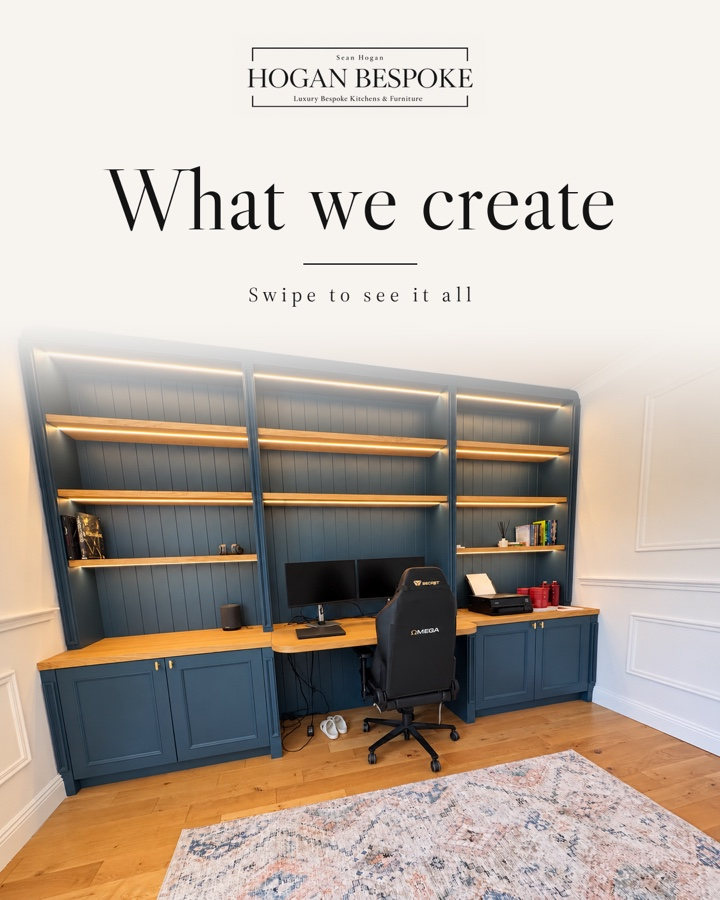
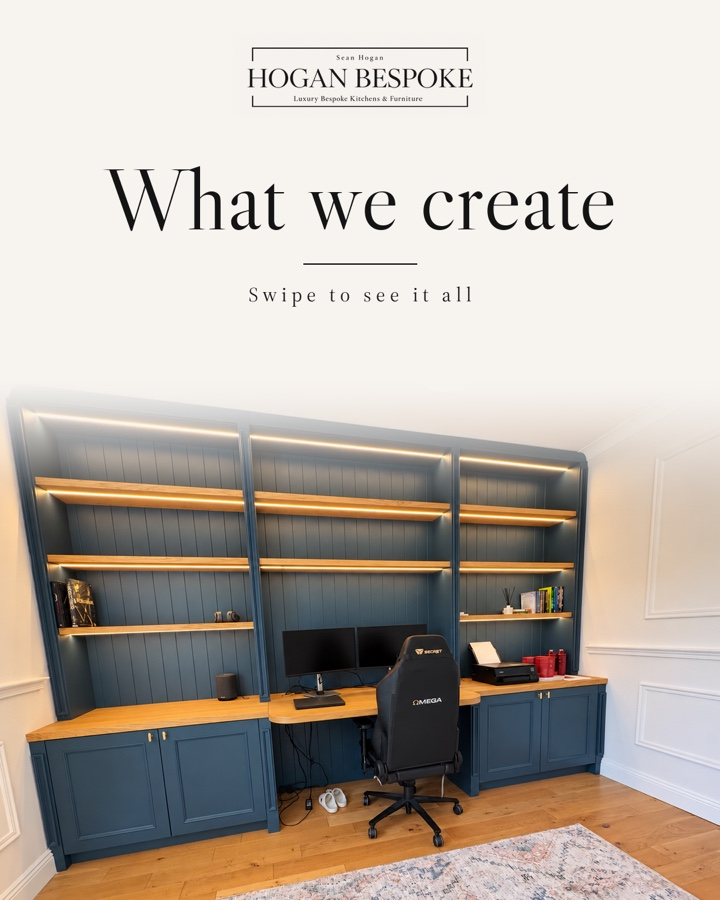
Hogan post 2: cover cropped to the furniture

diff --git a/public/approve/hogan-bespoke-x96pyh/index.html b/public/approve/hogan-bespoke-x96pyh/index.html
@@ -37,7 +37,7 @@
     <span>Eli Fátima · Irish Business Boosters · hello@irishbusinessboosters.com</span>
   </footer>
 </div>
-<script id="approval-data" type="application/json">{"page": "hogan-bespoke-x96pyh", "client": "Sean", "username": "hogan_bespoke_furniture", "avatar": "logo.png", "location": "Waterford, Ireland", "profile": {"id": "profile", "title": "New bio and highlights", "chips": ["Pick one bio"], "intro": "This is how your profile will look by the end of November: the new bio, the new highlight covers and the new posts at the top.", "about": "Both bios say who you are, what you make, and that you fit all over Ireland. Pick the one that sounds more like you.", "name": "Hogan Bespoke | Kitchens Ireland", "category": "Kitchen & cabinet designer", "link": "hoganbespokefurniture.com", "stats": ["175", "1,407", "609"], "choices": [{"id": "Bio A", "label": "Bio A · leads with the title", "bio": "IrelandSkills cabinetmaking champion 🏆\nBespoke kitchens, wardrobes & media walls\nHandmade in Waterford · Fitted all over Ireland\n👇 Get a quote"}, {"id": "Bio B", "label": "Bio B · softer", "bio": "Award-winning cabinetmaker 🏆\nKitchens, wardrobes, media walls & stairs\nHandmade in Waterford · Fitted all over Ireland\n👇 Get a quote"}], "highlights": [{"src": "covers/light-01-our-story.jpg", "name": "Our Story"}, {"src": "covers/light-02-kitchens.jpg", "name": "Kitchens"}, {"src": "covers/light-03-reviews.jpg", "name": "Reviews"}, {"src": "covers/light-04-wardrobes.jpg", "name": "Wardrobes"}, {"src": "covers/light-05-media-walls.jpg", "name": "Media Walls"}, {"src": "covers/light-06-commercial.jpg", "name": "Commercial"}, {"src": "covers/light-07-process.jpg", "name": "Process"}, {"src": "covers/light-08-joinery.jpg", "name": "Joinery"}, {"src": "covers/light-09-get-a-quote.jpg", "name": "Get a Quote"}], "grid": ["posts/08-commercial.jpg?v=3", "posts/07-christmas-media-wall.jpg?v=3", "posts/06-wardrobes.jpg?v=3", "posts/05-workshop.jpg?v=3", "posts/04-kitchens.jpg?v=3", "posts/03-the-reveal.jpg?v=3", "posts/02-what-we-create.jpg?v=2", "posts/01-slide-01.jpg?v=8", "posts/old-2026-trim-castle-hotel.jpg?v=3"]}, "postsTitle": "Your November posts", "postsIntro": "Eight posts, Mondays and Thursdays. Post 1 is fully designed; for the others you're seeing the cover, and we'll finish the slides as soon as the photos and details are in. The yellow bits are details we still need from you.", "posts": [{"id": "post-01", "date": "2026-11-02", "kind": "carousel", "title": "Come on in", "chips": ["Carousel · 9 slides", "Pinned to the top"], "images": ["posts/01-slide-01.jpg?v=9", "posts/01-slide-02.jpg?v=9", "posts/01-slide-03.jpg?v=11", "posts/01-slide-04.jpg?v=11", "posts/01-slide-05.jpg?v=11", "posts/01-slide-06.jpg?v=11", "posts/01-slide-07.jpg?v=11", "posts/01-slide-08.jpg?v=11", "posts/01-slide-09.jpg?v=11"], "about": "Our first post: the story of the company in nine slides, from the IrelandSkills title in 2017 to opening the workshop in 2020 and everything we make today.", "need": "Is there anything you'd change in the story? And if you have the original of the IrelandSkills photo, it would look sharper.", "caption": "Come on in. This is how we started.\n\nIn 2017, our founder Sean Hogan won IrelandSkills, the national championship for cabinetmaking, and went on to captain Team Ireland at WorldSkills in Abu Dhabi.\n\nIn August 2020, in the middle of a pandemic, we opened our workshop in Waterford.\n\nSince then we've designed and built kitchens, wardrobes, media walls and stairs for homes all over Ireland, and fitted out hotels and businesses like Trim Castle Hotel.\n\nEverything is still made by hand in our own workshop, to the same standard.\n\nOver the coming weeks we'll show you more of the work, and how it's made. Glad to have you here.", "tags": "#bespokekitchens #irishkitchens #handmadeinireland #bespokefurniture #waterford"}, {"id": "post-02", "date": "2026-11-05", "kind": "carousel", "title": "What we create", "chips": ["Carousel · 7 slides", "Pinned to the top", "Cover shown"], "images": ["posts/02-what-we-create.jpg?v=2"], "about": "A clear menu of everything you do, one slide per service. It stays pinned so anyone landing on your profile sees it straight away.", "need": "Is anything missing from the list? And do you do handleless kitchens?", "caption": "What we create. Everything is designed and built for one room only. Here's what that covers:\n\n· Kitchens: shaker, in-frame and handleless, painted or natural wood\n· Wardrobes: fitted, sliding and walk-in\n· Media walls: TV units, fireplaces, shelving and lighting\n· Stairs & joinery: staircases, drinks units, panelling and doors\n· Home offices and utility rooms\n· Commercial fit-outs: hotels, bars, offices and public buildings\n\nWe fit all over Ireland. Tell us what you're planning: send us a message or tap the link in our bio.", "tags": "#bespokefurniture #bespokekitchens #fittedwardrobes #mediawall #madeinireland"}, {"id": "post-03", "date": "2026-11-09", "kind": "reel", "length": "15 s", "title": "The reveal: navy kitchen", "chips": ["Reel"], "images": ["posts/03-the-reveal.jpg?v=3"], "about": "A slow walk into the navy kitchen, past the island, a drawer opening and closing softly. Calm music, no talking.", "need": "A video of this kitchen, if you have one (even a short phone clip). If not, I'll make it from the photos. Roughly how many weeks did it take?", "caption": "Every one of our kitchens is designed and built for one room only.\n\nThis one: navy painted shaker doors, premium stone worktops and a waterfall island. [X] weeks from first measure to final fit.\n\nPlanning a kitchen for 2027? Send us a message or tap the link in our bio.", "tags": "#bespokekitchens #navykitchen #irishkitchens #kitchendesignireland"}, {"id": "post-04", "date": "2026-11-12", "kind": "carousel", "title": "What we make: Kitchens", "chips": ["Carousel · 6 slides", "Series: What we make", "Cover shown"], "images": ["posts/04-kitchens.jpg?v=3"], "about": "The first of the \"What we make\" series. Slides: the styles (shaker, in-frame, handleless) · the materials · what's included · how long it takes · how to start.", "need": "How long does a kitchen usually take, from first visit to fitted? And which worktops do you use most?", "caption": "What goes into a Hogan Bespoke kitchen?\n\n· The style: shaker, in-frame or handleless\n· The wood: solid oak, ash or walnut, painted or natural\n· The worktop: [quartz, stone or solid wood]\n· The design: you see it in 3D before we cut a single board\n· The timing: around [X] weeks from first visit to final fit\n\nAll made in our workshop in Waterford and fitted by our own team, anywhere in Ireland.\n\nSwipe for the details 👉", "tags": "#bespokekitchens #shakerkitchen #irishkitchens #kitchendesignireland"}, {"id": "post-05", "date": "2026-11-16", "kind": "reel", "length": "15–20 s", "title": "From the workshop", "chips": ["Reel"], "images": ["posts/05-workshop.jpg?v=3"], "about": "Quick clips of hands and timber: cutting, shaping, sanding and assembling a door, with the real workshop sound. Ends on the finished piece.", "need": "We film this together on Tuesday 27 October. Five minutes at the bench is plenty.", "caption": "Before it's a kitchen door, it's a board of [timber] on our bench in Waterford.\n\nWe cut, shape, sand and assemble everything ourselves, so we control every millimetre, and nothing arrives on site that we haven't checked by hand.", "tags": "#handmadeinireland #cabinetmaker #bespokefurniture #waterford"}, {"id": "post-06", "date": "2026-11-19", "kind": "carousel", "title": "What we make: Wardrobes", "chips": ["Carousel · 6 slides", "Series: What we make", "Cover shown"], "images": ["posts/06-wardrobes.jpg?v=3"], "about": "Series, part 2. Slides: fitted · sliding · walk-in · children's rooms · what goes inside (rails, drawers, shoe racks, lighting).", "caption": "Fitted, sliding or walk-in: every wardrobe we make is built around the room and what goes in it.\n\nInside, you choose: hanging rails and pull-down rails, drawers, shoe racks, shelving and LED lighting.\n\nSwipe to see the options 👉\n\nThinking about a wardrobe? Send us a message with a photo of the space.", "tags": "#fittedwardrobes #walkinwardrobe #bespokefurniture #irishhomes"}, {"id": "post-07", "date": "2026-11-23", "kind": "reel", "length": "10–15 s", "title": "The room you'll spend Christmas in", "chips": ["Reel", "Christmas"], "images": ["posts/07-christmas-media-wall.jpg?v=3"], "about": "Starts on a detail (the LED light, a shelf) and opens out to the whole media wall, with the fire on.", "need": "A video of a media wall with the lights or fire on, if you have one.", "caption": "The room everyone ends up in at Christmas.\n\nThis media wall hides every cable, frames the fire and lights up the shelves, all built to fit the room to the millimetre.\n\nToo late for this Christmas? Plenty of time for the next one. Send us a message.", "tags": "#mediawall #livingroomideas #irishhomes #christmasathome"}, {"id": "post-08", "date": "2026-11-26", "kind": "carousel", "title": "What we make: Commercial", "chips": ["Carousel · 6 slides", "Series: What we make", "Cover shown"], "images": ["posts/08-commercial.jpg?v=3"], "about": "Series, part 3: the Trim Castle Hotel fit-out, with the other businesses you've built for on the last slide.", "need": "Are you happy for us to name The Fitzwilton, Bausch + Lomb, Clonmel Credit Union and the Garda station? I can leave out any of them.", "caption": "It's not only homes.\n\nWe recently completed the fit-out at Trim Castle Hotel: [what we built, e.g. the bar and back bar], made in our Waterford workshop and fitted on site.\n\nOver the years we've also built for The Fitzwilton Hotel, Bausch + Lomb, Clonmel Credit Union and Waterford Garda Station.\n\nPlanning a fit-out? Email sales@hoganbespoke.com.", "tags": "#commercialjoinery #hotelinteriors #shopfitting #madeinireland"}]}</script>
+<script id="approval-data" type="application/json">{"page": "hogan-bespoke-x96pyh", "client": "Sean", "username": "hogan_bespoke_furniture", "avatar": "logo.png", "location": "Waterford, Ireland", "profile": {"id": "profile", "title": "New bio and highlights", "chips": ["Pick one bio"], "intro": "This is how your profile will look by the end of November: the new bio, the new highlight covers and the new posts at the top.", "about": "Both bios say who you are, what you make, and that you fit all over Ireland. Pick the one that sounds more like you.", "name": "Hogan Bespoke | Kitchens Ireland", "category": "Kitchen & cabinet designer", "link": "hoganbespokefurniture.com", "stats": ["175", "1,407", "609"], "choices": [{"id": "Bio A", "label": "Bio A · leads with the title", "bio": "IrelandSkills cabinetmaking champion 🏆\nBespoke kitchens, wardrobes & media walls\nHandmade in Waterford · Fitted all over Ireland\n👇 Get a quote"}, {"id": "Bio B", "label": "Bio B · softer", "bio": "Award-winning cabinetmaker 🏆\nKitchens, wardrobes, media walls & stairs\nHandmade in Waterford · Fitted all over Ireland\n👇 Get a quote"}], "highlights": [{"src": "covers/light-01-our-story.jpg", "name": "Our Story"}, {"src": "covers/light-02-kitchens.jpg", "name": "Kitchens"}, {"src": "covers/light-03-reviews.jpg", "name": "Reviews"}, {"src": "covers/light-04-wardrobes.jpg", "name": "Wardrobes"}, {"src": "covers/light-05-media-walls.jpg", "name": "Media Walls"}, {"src": "covers/light-06-commercial.jpg", "name": "Commercial"}, {"src": "covers/light-07-process.jpg", "name": "Process"}, {"src": "covers/light-08-joinery.jpg", "name": "Joinery"}, {"src": "covers/light-09-get-a-quote.jpg", "name": "Get a Quote"}], "grid": ["posts/08-commercial.jpg?v=3", "posts/07-christmas-media-wall.jpg?v=3", "posts/06-wardrobes.jpg?v=3", "posts/05-workshop.jpg?v=3", "posts/04-kitchens.jpg?v=3", "posts/03-the-reveal.jpg?v=3", "posts/02-what-we-create.jpg?v=3", "posts/01-slide-01.jpg?v=8", "posts/old-2026-trim-castle-hotel.jpg?v=3"]}, "postsTitle": "Your November posts", "postsIntro": "Eight posts, Mondays and Thursdays. Post 1 is fully designed; for the others you're seeing the cover, and we'll finish the slides as soon as the photos and details are in. The yellow bits are details we still need from you.", "posts": [{"id": "post-01", "date": "2026-11-02", "kind": "carousel", "title": "Come on in", "chips": ["Carousel · 9 slides", "Pinned to the top"], "images": ["posts/01-slide-01.jpg?v=9", "posts/01-slide-02.jpg?v=9", "posts/01-slide-03.jpg?v=11", "posts/01-slide-04.jpg?v=11", "posts/01-slide-05.jpg?v=11", "posts/01-slide-06.jpg?v=11", "posts/01-slide-07.jpg?v=11", "posts/01-slide-08.jpg?v=11", "posts/01-slide-09.jpg?v=11"], "about": "Our first post: the story of the company in nine slides, from the IrelandSkills title in 2017 to opening the workshop in 2020 and everything we make today.", "need": "Is there anything you'd change in the story? And if you have the original of the IrelandSkills photo, it would look sharper.", "caption": "Come on in. This is how we started.\n\nIn 2017, our founder Sean Hogan won IrelandSkills, the national championship for cabinetmaking, and went on to captain Team Ireland at WorldSkills in Abu Dhabi.\n\nIn August 2020, in the middle of a pandemic, we opened our workshop in Waterford.\n\nSince then we've designed and built kitchens, wardrobes, media walls and stairs for homes all over Ireland, and fitted out hotels and businesses like Trim Castle Hotel.\n\nEverything is still made by hand in our own workshop, to the same standard.\n\nOver the coming weeks we'll show you more of the work, and how it's made. Glad to have you here.", "tags": "#bespokekitchens #irishkitchens #handmadeinireland #bespokefurniture #waterford"}, {"id": "post-02", "date": "2026-11-05", "kind": "carousel", "title": "What we create", "chips": ["Carousel · 7 slides", "Pinned to the top", "Cover shown"], "images": ["posts/02-what-we-create.jpg?v=3"], "about": "A clear menu of everything you do, one slide per service. It stays pinned so anyone landing on your profile sees it straight away.", "need": "Is anything missing from the list? And do you do handleless kitchens?", "caption": "What we create. Everything is designed and built for one room only. Here's what that covers:\n\n· Kitchens: shaker, in-frame and handleless, painted or natural wood\n· Wardrobes: fitted, sliding and walk-in\n· Media walls: TV units, fireplaces, shelving and lighting\n· Stairs & joinery: staircases, drinks units, panelling and doors\n· Home offices and utility rooms\n· Commercial fit-outs: hotels, bars, offices and public buildings\n\nWe fit all over Ireland. Tell us what you're planning: send us a message or tap the link in our bio.", "tags": "#bespokefurniture #bespokekitchens #fittedwardrobes #mediawall #madeinireland"}, {"id": "post-03", "date": "2026-11-09", "kind": "reel", "length": "15 s", "title": "The reveal: navy kitchen", "chips": ["Reel"], "images": ["posts/03-the-reveal.jpg?v=3"], "about": "A slow walk into the navy kitchen, past the island, a drawer opening and closing softly. Calm music, no talking.", "need": "A video of this kitchen, if you have one (even a short phone clip). If not, I'll make it from the photos. Roughly how many weeks did it take?", "caption": "Every one of our kitchens is designed and built for one room only.\n\nThis one: navy painted shaker doors, premium stone worktops and a waterfall island. [X] weeks from first measure to final fit.\n\nPlanning a kitchen for 2027? Send us a message or tap the link in our bio.", "tags": "#bespokekitchens #navykitchen #irishkitchens #kitchendesignireland"}, {"id": "post-04", "date": "2026-11-12", "kind": "carousel", "title": "What we make: Kitchens", "chips": ["Carousel · 6 slides", "Series: What we make", "Cover shown"], "images": ["posts/04-kitchens.jpg?v=3"], "about": "The first of the \"What we make\" series. Slides: the styles (shaker, in-frame, handleless) · the materials · what's included · how long it takes · how to start.", "need": "How long does a kitchen usually take, from first visit to fitted? And which worktops do you use most?", "caption": "What goes into a Hogan Bespoke kitchen?\n\n· The style: shaker, in-frame or handleless\n· The wood: solid oak, ash or walnut, painted or natural\n· The worktop: [quartz, stone or solid wood]\n· The design: you see it in 3D before we cut a single board\n· The timing: around [X] weeks from first visit to final fit\n\nAll made in our workshop in Waterford and fitted by our own team, anywhere in Ireland.\n\nSwipe for the details 👉", "tags": "#bespokekitchens #shakerkitchen #irishkitchens #kitchendesignireland"}, {"id": "post-05", "date": "2026-11-16", "kind": "reel", "length": "15–20 s", "title": "From the workshop", "chips": ["Reel"], "images": ["posts/05-workshop.jpg?v=3"], "about": "Quick clips of hands and timber: cutting, shaping, sanding and assembling a door, with the real workshop sound. Ends on the finished piece.", "need": "We film this together on Tuesday 27 October. Five minutes at the bench is plenty.", "caption": "Before it's a kitchen door, it's a board of [timber] on our bench in Waterford.\n\nWe cut, shape, sand and assemble everything ourselves, so we control every millimetre, and nothing arrives on site that we haven't checked by hand.", "tags": "#handmadeinireland #cabinetmaker #bespokefurniture #waterford"}, {"id": "post-06", "date": "2026-11-19", "kind": "carousel", "title": "What we make: Wardrobes", "chips": ["Carousel · 6 slides", "Series: What we make", "Cover shown"], "images": ["posts/06-wardrobes.jpg?v=3"], "about": "Series, part 2. Slides: fitted · sliding · walk-in · children's rooms · what goes inside (rails, drawers, shoe racks, lighting).", "caption": "Fitted, sliding or walk-in: every wardrobe we make is built around the room and what goes in it.\n\nInside, you choose: hanging rails and pull-down rails, drawers, shoe racks, shelving and LED lighting.\n\nSwipe to see the options 👉\n\nThinking about a wardrobe? Send us a message with a photo of the space.", "tags": "#fittedwardrobes #walkinwardrobe #bespokefurniture #irishhomes"}, {"id": "post-07", "date": "2026-11-23", "kind": "reel", "length": "10–15 s", "title": "The room you'll spend Christmas in", "chips": ["Reel", "Christmas"], "images": ["posts/07-christmas-media-wall.jpg?v=3"], "about": "Starts on a detail (the LED light, a shelf) and opens out to the whole media wall, with the fire on.", "need": "A video of a media wall with the lights or fire on, if you have one.", "caption": "The room everyone ends up in at Christmas.\n\nThis media wall hides every cable, frames the fire and lights up the shelves, all built to fit the room to the millimetre.\n\nToo late for this Christmas? Plenty of time for the next one. Send us a message.", "tags": "#mediawall #livingroomideas #irishhomes #christmasathome"}, {"id": "post-08", "date": "2026-11-26", "kind": "carousel", "title": "What we make: Commercial", "chips": ["Carousel · 6 slides", "Series: What we make", "Cover shown"], "images": ["posts/08-commercial.jpg?v=3"], "about": "Series, part 3: the Trim Castle Hotel fit-out, with the other businesses you've built for on the last slide.", "need": "Are you happy for us to name The Fitzwilton, Bausch + Lomb, Clonmel Credit Union and the Garda station? I can leave out any of them.", "caption": "It's not only homes.\n\nWe recently completed the fit-out at Trim Castle Hotel: [what we built, e.g. the bar and back bar], made in our Waterford workshop and fitted on site.\n\nOver the years we've also built for The Fitzwilton Hotel, Bausch + Lomb, Clonmel Credit Union and Waterford Garda Station.\n\nPlanning a fit-out? Email sales@hoganbespoke.com.", "tags": "#commercialjoinery #hotelinteriors #shopfitting #madeinireland"}]}</script>
 <script src="/approve/_assets/approve.js?v=3"></script>
 </body>
 </html>
